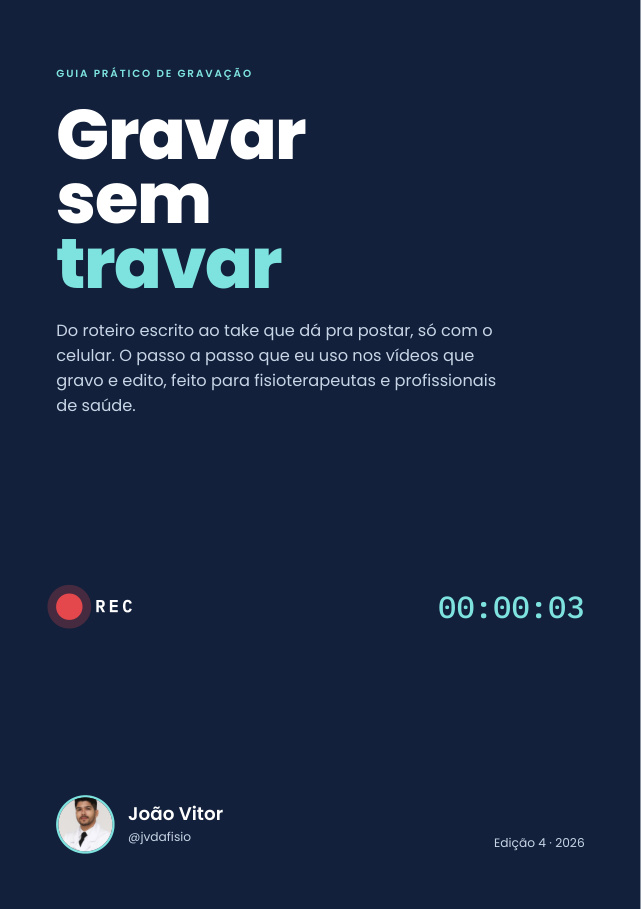
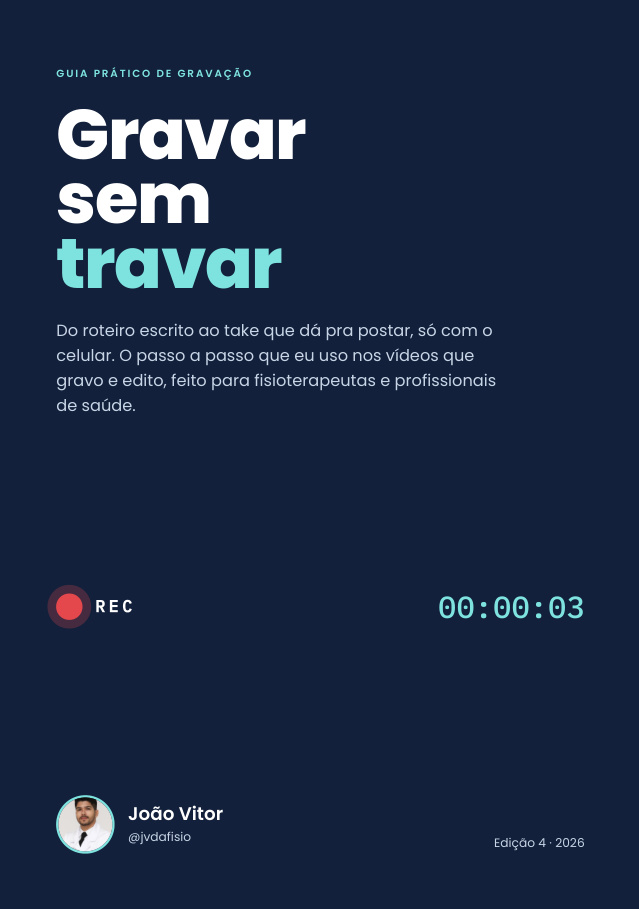
Atualiza a página

diff --git a/index.html b/index.html
@@ -189,7 +189,7 @@ a { color: inherit }
 
 /* produtos digitais */
 .produtos { display: grid; gap: 16px; width: 100% }
-@media (min-width: 980px) { .produtos { grid-template-columns: repeat(3, 1fr) } .produtos .produto { grid-template-columns: 1fr; align-items: start } }
+@media (min-width: 980px) { .produtos { grid-template-columns: repeat(3, 1fr) } .produtos .produto { grid-template-columns: 1fr; align-content: start } }
 .produto { background: var(--cartao); border: 1px solid var(--linha); border-radius: 18px; padding: 20px; display: grid; gap: 18px; align-items: center; min-width: 0 }
 @media (min-width: 560px) { .produto { grid-template-columns: 170px 1fr } }
 .produto img { width: 100%; max-width: 220px; aspect-ratio: 1 / 1.414; object-fit: cover; border-radius: 8px; box-shadow: var(--sombra); justify-self: center }
